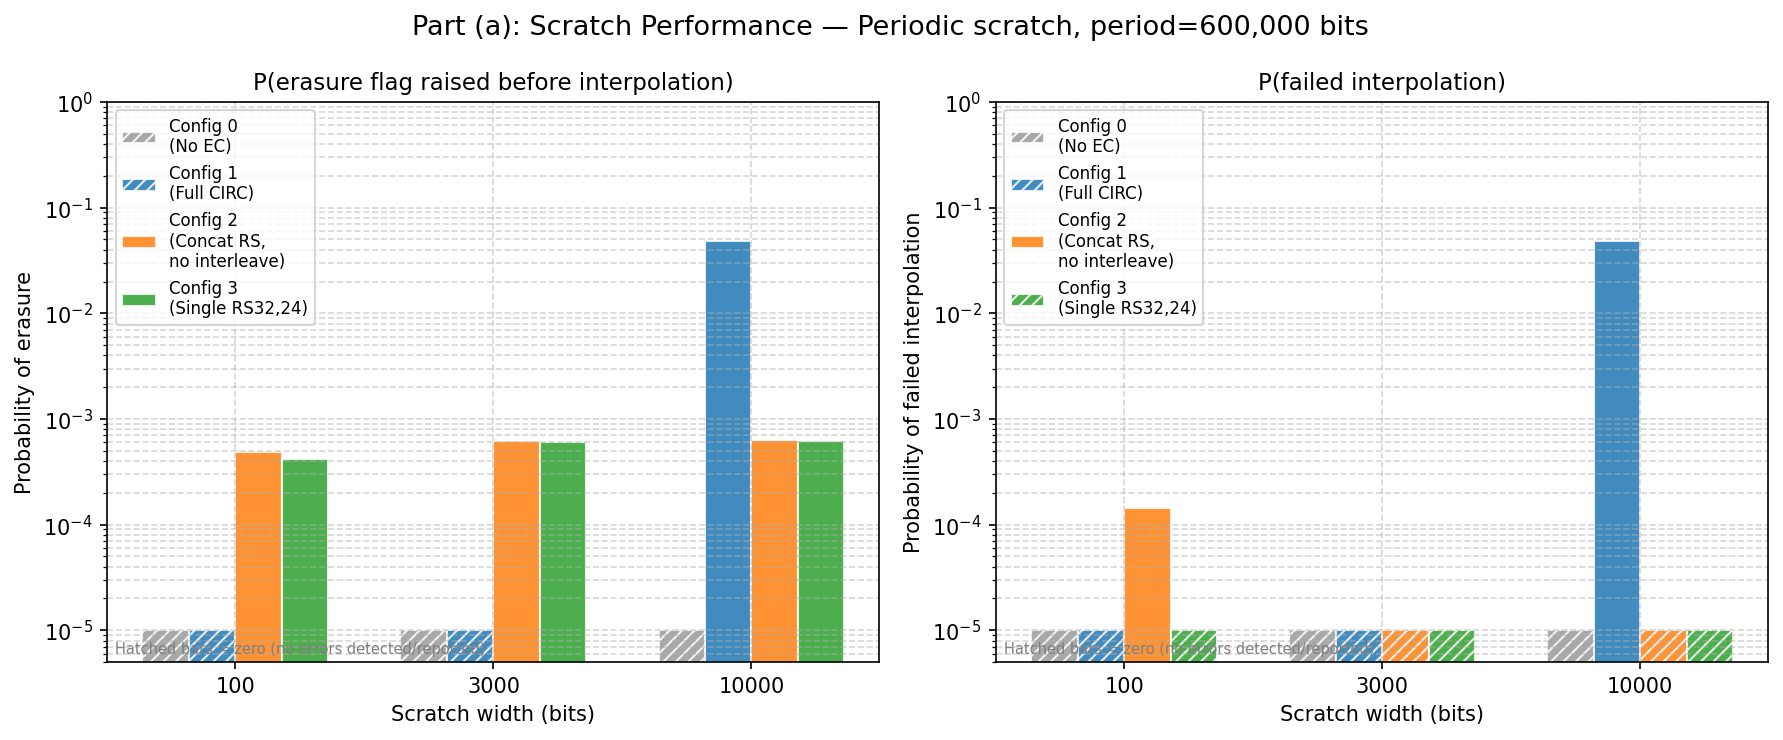
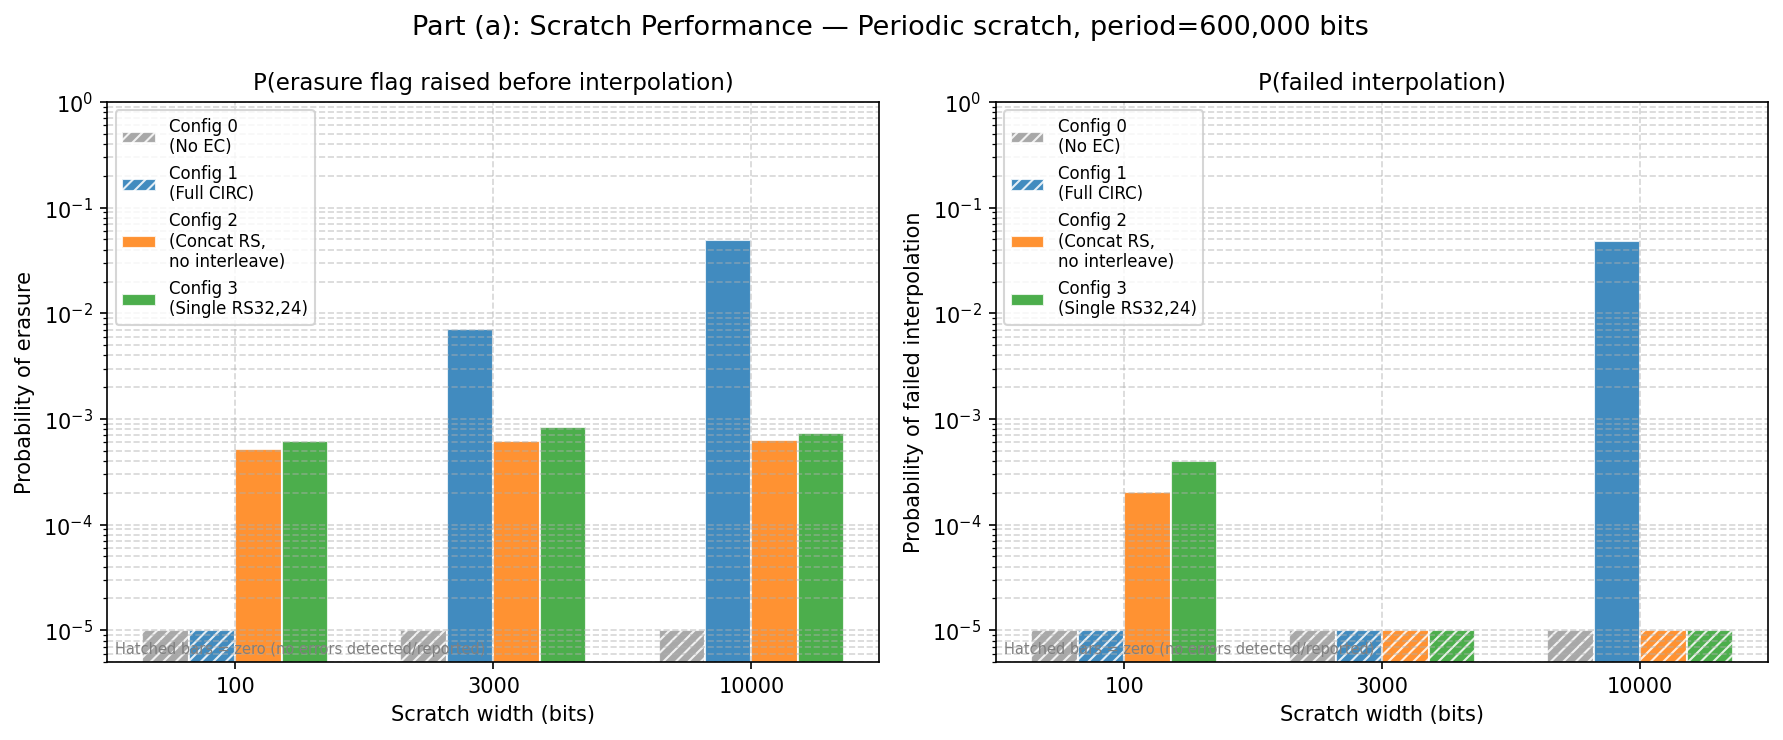
images

diff --git a/q5_comparison.py b/q5_comparison.py
@@ -50,16 +50,27 @@ def build_cd(config, audiofile, Fs):
     return cd
 
 
+def fmt_prob(val):
+    if val == 0:
+        return "0"
+    exp = math.floor(math.log10(val))
+    mantissa = val / (10 ** exp)
+    return f"{mantissa:.2f} * 10^{exp}"
+
+
 def run_scratch_trial(cd, scratch_width):
     cd.cd_bits = copy.deepcopy(cd.cd_bits_original)
     n_bits = cd.cd_bits_original.size
     for i in range(math.floor(n_bits / T_SCRATCH)):
         cd.scratchCd(scratch_width, SCRATCH_OFFSET + i * T_SCRATCH)
-    _, flags = cd.readCd()
+    audio_out, flags = cd.readCd()
     total = flags.size
     p_erasure = np.sum(flags != 0) / total
     p_fail = np.sum(flags == -1) / total
-    return p_erasure, p_fail
+    ref = cd.scaled_quantized_padded_original
+    n = min(audio_out.shape[0], ref.shape[0])
+    p_error = np.sum(audio_out[:n] != ref[:n]) / (n * audio_out.shape[1])
+    return p_erasure, p_fail, p_error
 
 
 def run_biterror_trial(cd, p):
@@ -85,9 +96,23 @@ def part_a_scratch(audiofile, Fs):
     for cfg in CONFIGS_ALL:
         for width in SCRATCH_WIDTHS:
             print(f"  [config={cfg}, scratch={width:>6} bits]", end="", flush=True)
-            p_e, p_f = run_scratch_trial(cds[cfg], width)
-            results[cfg][width] = (p_e, p_f)
-            print(f"  P(erasure)={p_e:.4f}, P(fail)={p_f:.4f}")
+            p_e, p_f, p_err = run_scratch_trial(cds[cfg], width)
+            results[cfg][width] = (p_e, p_f, p_err)
+            print(f"  P_flagged={p_e:.4e}, P_failed={p_f:.4e}, P_error={p_err:.4e}")
+
+    # Print summary table
+    col_w = 24
+    header = f"{'Scratch (bits)':<16} {'Config':<8} {'P_flagged':<{col_w}} {'P_failed':<{col_w}} {'P_error':<{col_w}}"
+    print("\n" + "=" * len(header))
+    print(header)
+    print("=" * len(header))
+    for width in SCRATCH_WIDTHS:
+        for cfg in CONFIGS_ALL:
+            p_e, p_f, p_err = results[cfg][width]
+            width_str = str(width) if cfg == CONFIGS_ALL[0] else ""
+            print(f"{width_str:<16} {cfg:<8} {fmt_prob(p_e):<{col_w}} {fmt_prob(p_f):<{col_w}} {fmt_prob(p_err):<{col_w}}")
+        print("-" * len(header))
+    print()
 
     # Grouped bar chart
     n_widths = len(SCRATCH_WIDTHS)
@@ -189,12 +214,11 @@ def main():
     print("Loading WAV file...")
     audiofile, Fs = load_audiofile(WAV_FILE)
 
-    print("\n=== Part (a): Scratch test ===")
-    part_a_scratch(audiofile, Fs)
-
     print("\n=== Part (b): Random bit error sweep ===")
     part_b_biterrors(audiofile, Fs)
 
+    print("\n=== Part (a): Scratch test ===")
+    part_a_scratch(audiofile, Fs)
     print("\nDone.")
 
 
